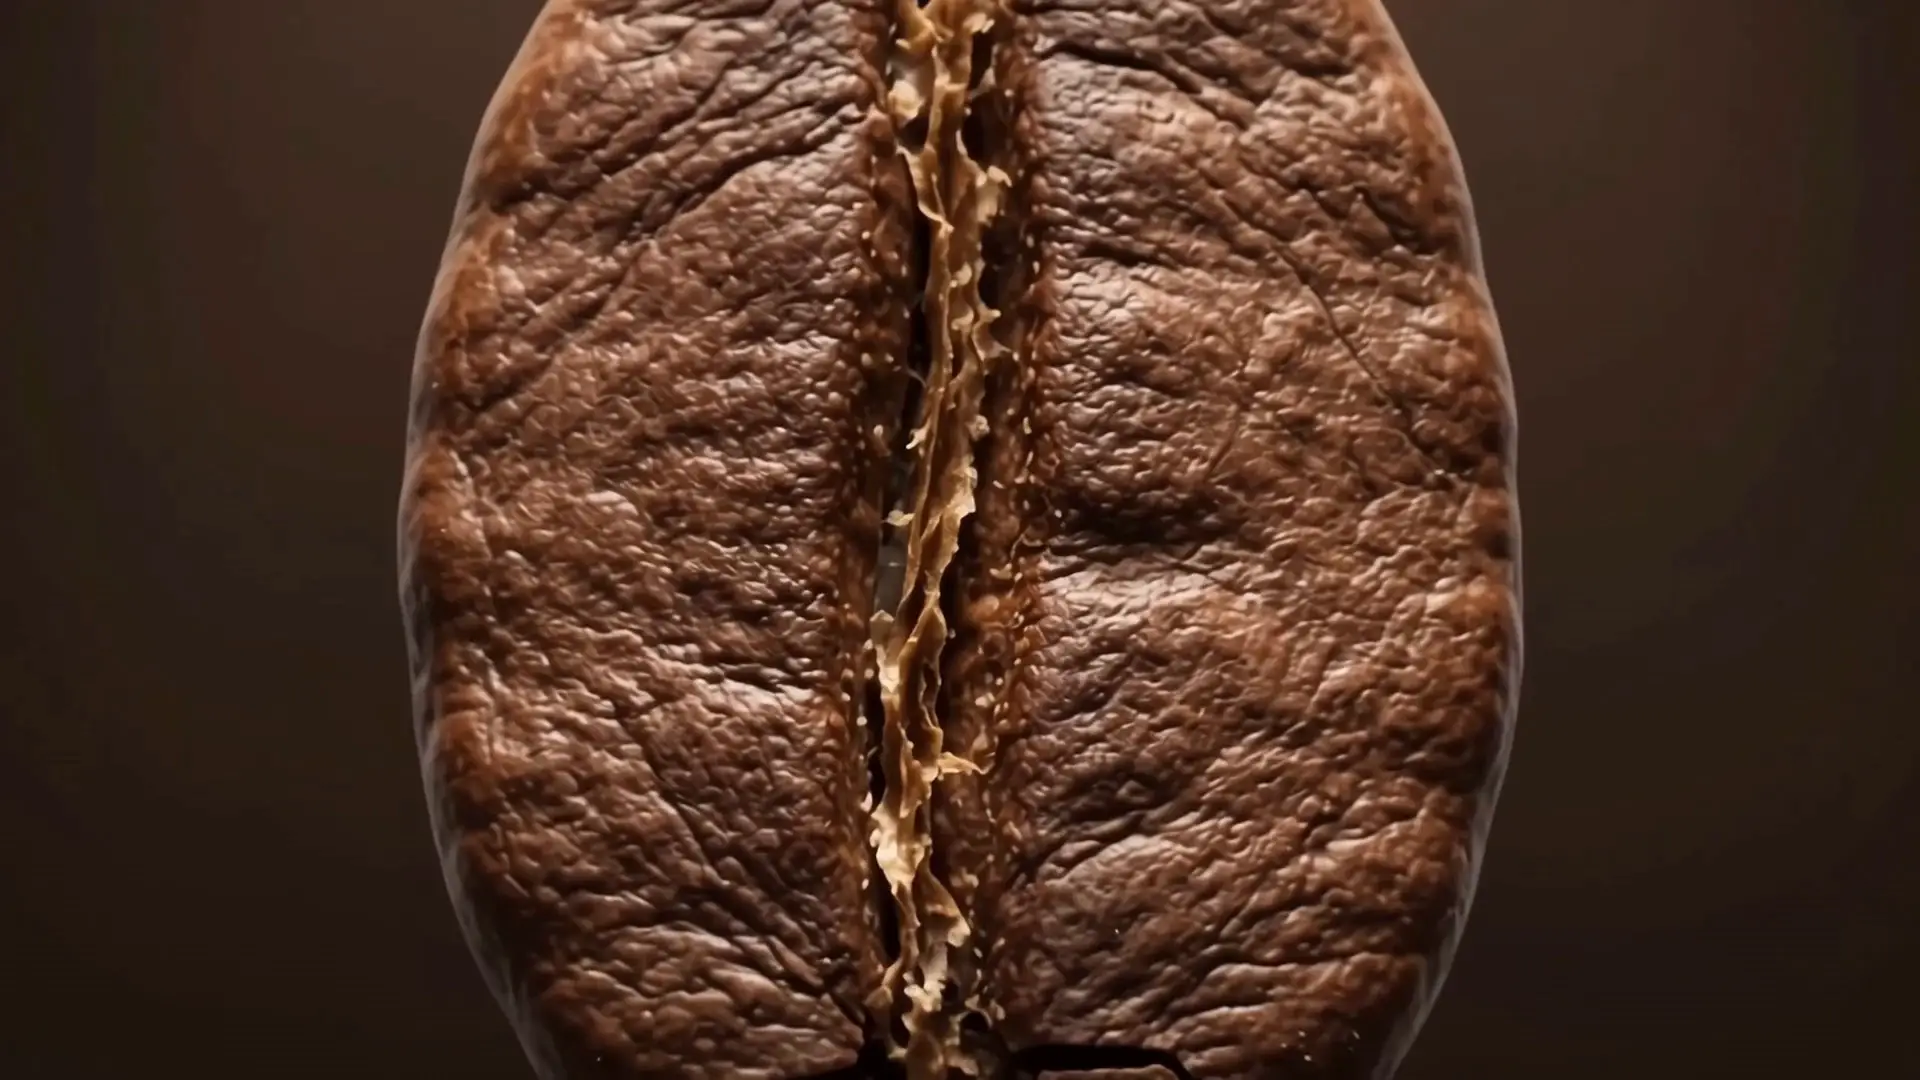
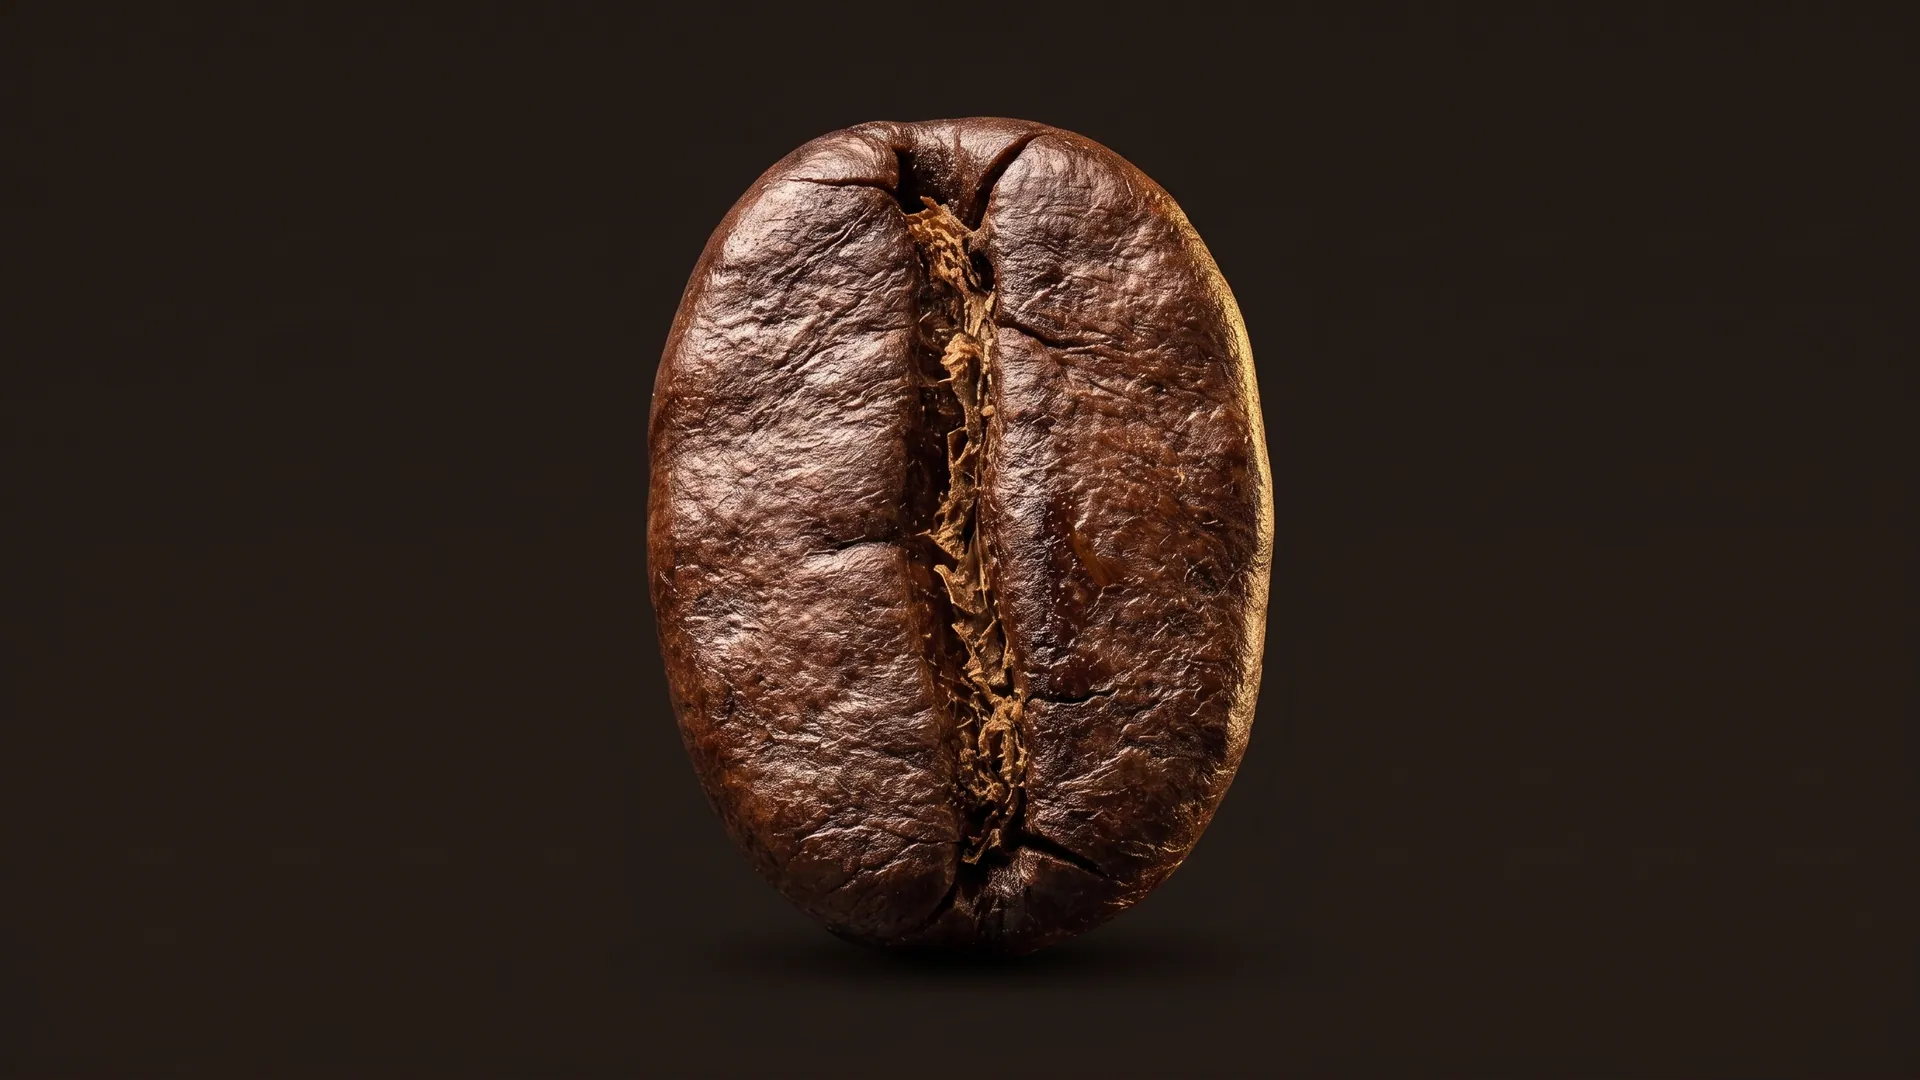
New first fotogram

diff --git a/src/components/Header.tsx b/src/components/Header.tsx
@@ -98,10 +98,10 @@ export const Header: React.FC<HeaderProps> = ({ escenaActual }) => {
           </div>
 
           {/* Navegación y Acciones */}
-          <div className="flex items-center gap-3 shrink-0">
+          <div className="flex items-center gap-2 sm:gap-3 shrink-0">
             <button
               onClick={() => scrollToSection('escena-8')}
-              className="font-jakarta text-[12px] font-semibold tracking-wider uppercase text-[var(--color-crema-dim)] hover:text-white px-3.5 py-2 rounded-lg transition-colors cursor-pointer"
+              className="hidden sm:inline-flex font-jakarta text-[11px] sm:text-[12px] font-semibold tracking-wider uppercase text-[var(--color-crema-dim)] hover:text-white px-2.5 sm:px-3.5 py-2 rounded-lg transition-colors cursor-pointer"
             >
               Horario & Info
             </button>
@@ -112,20 +112,20 @@ export const Header: React.FC<HeaderProps> = ({ escenaActual }) => {
                 href={whatsappUrl}
                 target="_blank"
                 rel="noopener noreferrer"
-                className="font-jakarta text-[12px] font-semibold tracking-wider uppercase bg-[var(--color-zafiro)] hover:bg-[var(--color-zafiro-hover)] text-[var(--color-crema)] px-4 py-2.5 rounded-lg transition-all shadow-[0_4px_20px_-2px_rgba(47,62,158,0.4)] flex items-center gap-2 hover:scale-[1.02]"
+                className="font-jakarta text-[11px] sm:text-[12px] font-semibold tracking-wider uppercase bg-[var(--color-zafiro)] hover:bg-[var(--color-zafiro-hover)] text-[var(--color-crema)] px-3 sm:px-4 py-2 sm:py-2.5 rounded-lg transition-all shadow-[0_4px_20px_-2px_rgba(47,62,158,0.4)] flex items-center gap-1.5 sm:gap-2 hover:scale-[1.02]"
                 id="header-reservar-btn"
               >
-                <MessageCircle size={15} />
+                <MessageCircle size={14} className="shrink-0" />
                 <span>Reservar</span>
               </a>
             ) : (
               <button
                 disabled
-                className="font-jakarta text-[12px] font-semibold tracking-wider uppercase bg-white/10 text-white/40 px-4 py-2.5 rounded-lg cursor-not-allowed flex items-center gap-2"
+                className="font-jakarta text-[11px] sm:text-[12px] font-semibold tracking-wider uppercase bg-white/10 text-white/40 px-3 sm:px-4 py-2 sm:py-2.5 rounded-lg cursor-not-allowed flex items-center gap-1.5 sm:gap-2"
                 title="Número de WhatsApp no configurado"
                 id="header-reservar-btn-disabled"
               >
-                <MessageCircle size={15} />
+                <MessageCircle size={14} className="shrink-0" />
                 <span>Reservar</span>
               </button>
             )}
@@ -133,7 +133,7 @@ export const Header: React.FC<HeaderProps> = ({ escenaActual }) => {
             {/* Botón de Menú Móvil */}
             <button
               onClick={() => setDrawerOpen(true)}
-              className="md:hidden p-2 text-[var(--color-crema)] hover:bg-white/10 rounded-lg transition-colors"
+              className="md:hidden p-1.5 sm:p-2 text-[var(--color-crema)] hover:bg-white/10 rounded-lg transition-colors cursor-pointer"
               aria-label="Abrir menú de navegación"
             >
               <Menu size={22} />

diff --git a/src/components/HeroCanvas.tsx b/src/components/HeroCanvas.tsx
@@ -73,11 +73,13 @@ export const HeroCanvas: React.FC<HeroCanvasProps> = ({ progreso, onFrameChange 
       }
 
       const numStr = String(frameNum).padStart(4, '0');
-      const url = `/frames/${folder}/frame_${numStr}.webp`;
+      // Forzar recarga limpia del primer fotograma para evitar cache persistente del navegador
+      const cacheBust = frameNum === 1 ? `?v=portada_${Date.now().toString().slice(0, 8)}` : '';
+      const url = `/frames/${folder}/frame_${numStr}.webp${cacheBust}`;
 
       const promise = (async () => {
         try {
-          const res = await fetch(url, { cache: 'force-cache' });
+          const res = await fetch(url, { cache: frameNum === 1 ? 'no-cache' : 'force-cache' });
           if (!res.ok) throw new Error(`HTTP ${res.status}`);
           const blob = await res.blob();
           const bitmap = await createImageBitmap(blob);
@@ -151,6 +153,9 @@ export const HeroCanvas: React.FC<HeroCanvasProps> = ({ progreso, onFrameChange 
     []
   );
 
+  const progresoRef = useRef<number>(progreso);
+  progresoRef.current = progreso;
+
   // Draw current frame on canvas with 'cover' fitting
   const renderFrame = useCallback(
     async (frameNum: number) => {
@@ -195,7 +200,31 @@ export const HeroCanvas: React.FC<HeroCanvasProps> = ({ progreso, onFrameChange 
       const offsetX = (width - scaledW) / 2;
       const offsetY = (height - scaledH) / 2;
 
-      ctx.drawImage(bitmap, offsetX, offsetY, scaledW, scaledH);
+      const p = progresoRef.current;
+      // Transición suave muy breve y ligera (progreso entre 0.00 y 0.02)
+      if (p > 0.001 && p < 0.025 && frameNum > 1) {
+        const frame1Bitmap = bitmapCache.current.get(1);
+        if (frame1Bitmap) {
+          const portadaAlpha = Math.max(0, 1 - (p / 0.025));
+          ctx.drawImage(bitmap, offsetX, offsetY, scaledW, scaledH);
+
+          ctx.save();
+          ctx.globalAlpha = portadaAlpha;
+          const pImgW = frame1Bitmap.width;
+          const pImgH = frame1Bitmap.height;
+          const pScale = Math.max(width / pImgW, height / pImgH);
+          const pScaledW = pImgW * pScale;
+          const pScaledH = pImgH * pScale;
+          const pOffsetX = (width - pScaledW) / 2;
+          const pOffsetY = (height - pScaledH) / 2;
+          ctx.drawImage(frame1Bitmap, pOffsetX, pOffsetY, pScaledW, pScaledH);
+          ctx.restore();
+        } else {
+          ctx.drawImage(bitmap, offsetX, offsetY, scaledW, scaledH);
+        }
+      } else {
+        ctx.drawImage(bitmap, offsetX, offsetY, scaledW, scaledH);
+      }
       ctx.restore();
 
       lastRenderedFrame.current = frameNum;
@@ -218,7 +247,7 @@ export const HeroCanvas: React.FC<HeroCanvasProps> = ({ progreso, onFrameChange 
     const targetFrame = mapearProgresoAFotograma(progreso);
     const folder: 'desktop' | 'mobile' = isVertical ? 'mobile' : 'desktop';
 
-    if (targetFrame !== lastRenderedFrame.current) {
+    if (targetFrame !== lastRenderedFrame.current || progreso < 0.03) {
       const direction = targetFrame > lastRenderedFrame.current ? 1 : -1;
       renderFrame(targetFrame);
       preloadNeighborFrames(targetFrame, folder, direction);

diff --git a/src/components/PolaroidsLayer.tsx b/src/components/PolaroidsLayer.tsx
@@ -98,7 +98,7 @@ export const PolaroidsLayer: React.FC<PolaroidsLayerProps> = ({ progreso }) => {
         <div className="w-full max-w-[1440px] mx-auto h-full flex items-center justify-between px-6 lg:px-12 text-[var(--color-crema)]/70 text-xs sm:text-sm font-sans tracking-widest uppercase">
           <span className="flex items-center gap-2 font-medium">
             <span className="w-2 h-2 rounded-full bg-amber-500 animate-pulse" />
-            Ohana Showcase
+            Selección Ohana
           </span>
           <span className="font-mono text-[11px] text-[var(--color-crema)]/40 hidden sm:inline tracking-wider">
             ESPECTRO GASTRONÓMICO · BENICARLÓ
@@ -167,7 +167,7 @@ export const PolaroidsLayer: React.FC<PolaroidsLayerProps> = ({ progreso }) => {
                 }}
               >
                 <div
-                  className={`polaroid-frame p-3 pb-6 sm:p-4 sm:pb-8 rounded-[4px] w-[240px] sm:w-[300px] md:w-[350px] transition-shadow duration-300 ${
+                  className={`polaroid-frame p-2.5 pb-5 sm:p-4 sm:pb-8 rounded-[4px] w-[215px] xs:w-[240px] sm:w-[300px] md:w-[350px] transition-shadow duration-300 ${
                     focusStrength > 0.7
                       ? 'shadow-[0_25px_50px_rgba(0,0,0,0.8),0_0_30px_rgba(255,248,240,0.15)] ring-1 ring-white/30'
                       : 'shadow-[0_15px_30px_rgba(0,0,0,0.6)]'

diff --git a/src/components/TextScenesLayer.tsx b/src/components/TextScenesLayer.tsx
@@ -81,8 +81,8 @@ export const TextScenesLayer: React.FC<TextScenesLayerProps> = ({ progreso, onSc
           }}
           aria-label="Escena I: Apertura"
         >
-          {/* Fondo negro puro inicial */}
-          <div className="absolute inset-0 bg-black/60 pointer-events-none -z-10" />
+          {/* Sutil viñeta para legibilidad sin oscurecer la foto de portada */}
+          <div className="absolute inset-0 bg-gradient-to-t from-black/50 via-transparent to-black/40 pointer-events-none -z-10" />
 
           <div className="mb-8 flex items-center gap-3">
             <span className="w-8 h-[1px] bg-white/20" />
